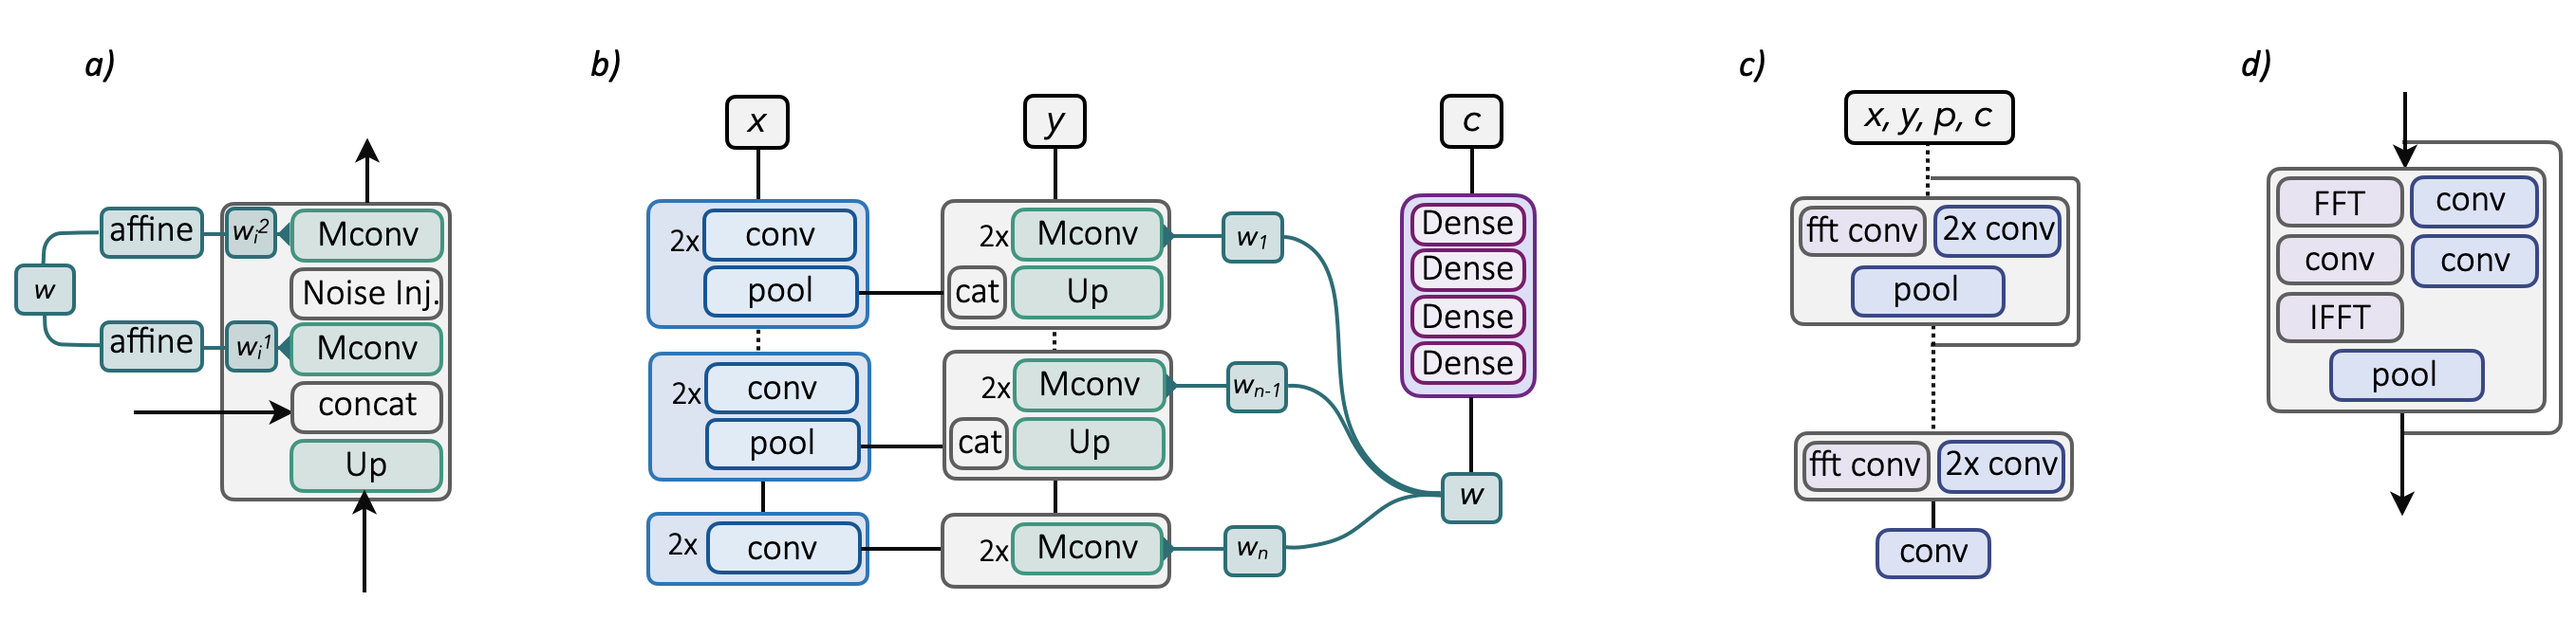
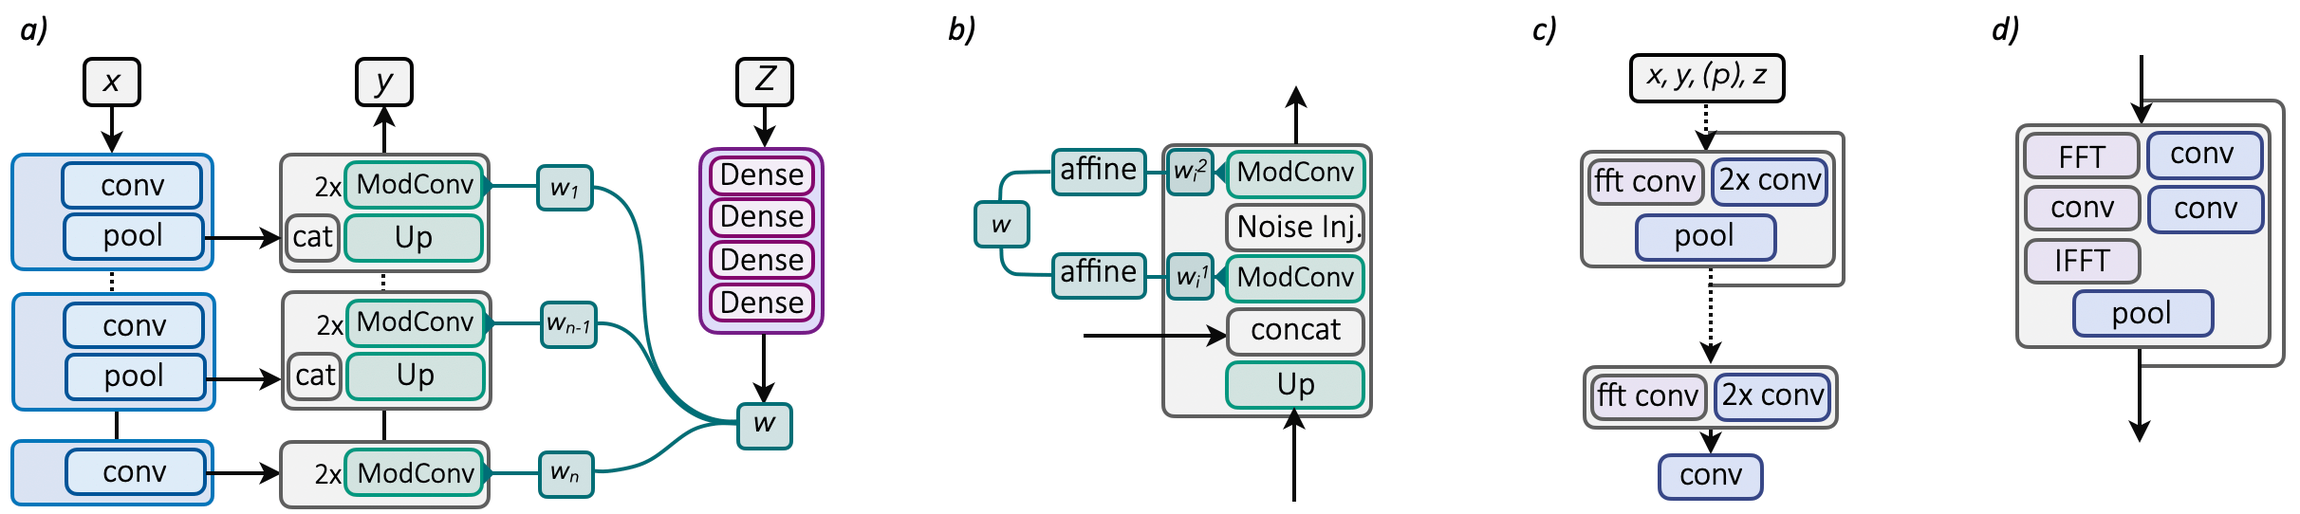
updated architecture section + image

diff --git a/index.html b/index.html
@@ -522,11 +522,11 @@ h3.figtitle {
     <strong>
     a)
     </strong>
-    A single block in the decoder branch of the synthesis network comprised of a bicubic upsampling step, followed by a concatenation with the skip connection from the corresponding encoder block. The base kernels of the two ModConvs are modulated via an affine layer with the externally mapped style vector <em>w</em>. Between the two convolutions we concatenate 8 channels of gaussian noise to the tensor before feeding it through the second ModConv. Note that the two affine mappings are learned individually.
+    Total overview of the synthesis network based on the typical U-Net architecture. Features from the input <em>x</em> are extracted via an encoder (blue blocks) comprised of two normal convolutions and a strided convolution for pooling. Subsequently the representations are decoded through a series of ModConv blocks to synthesize <em>y</em>. The Mapping network shown in purple is a simple 5-layer multi-layer perceptron (each layer of size 64) that maps the global redshift information <em>z</em> to the style vector <em>w</em>.
     <strong>
     b)
     </strong>
-    Total overview of the synthesis network based on the typical U-Net architecture. Features from the input <em>x</em> are extracted via an encoder (blue blocks) comprised of two normal convolutions and a strided convolution for pooling. Subsequently the representations are decoded through a series of ModConv blocks to synthesize <em>y</em>. The Mapping network shown in purple is a simple 8-layer MLP (each layer of size 64) that maps the context tuple (<em>z,r</em>) to the style vector <em>w</em>.
+    A single block in the decoder branch of the synthesis network comprised of a bicubic upsampling step, followed by a concatenation with the skip connection from the corresponding encoder block. The base kernels of the two ModConvs are modulated via an affine layer with the externally mapped style vector <em>w</em>. Between the two convolutions we concatenate 8 channels of gaussian noise to the tensor before feeding it through the second ModConv. Note that the two affine mappings are learned individually.
     <strong>
     c)
     </strong>
@@ -534,7 +534,7 @@ h3.figtitle {
     <strong>
     d)
     </strong>
-    Discriminator block comprised of two normal convolutions on the right path. Along the left path the data is first transformed to fourier space, convolved to extract frequency features and subsequently transformed back to real space via the inverse fourier transform. The data from the left and right path are added elemet-wise and pooled by a strided convolution. Note that throughout all networks, we use kernel sizes of 3, strides of 1 (except for the strided convolution, where a stride of 2 is used) and LeakyReLU activation functions.
+    Discriminator block comprised of two normal convolutions on the right path. Along the left path the data is first transformed to fourier space, convolved to extract frequency features and subsequently transformed back to real space via the inverse fourier transform. The data from the left and right path are added elemet-wise and pooled by a strided convolution. Throughout all networks, we use kernel sizes of 3, strides of 1 (except for the strided convolution, where a stride of 2 is used) and LeakyReLU activation functions.
    </p>
    <img src="https://raw.githubusercontent.com/maurbe/ember2/gh-pages/scr/nn.png" width="100%"/>
    <h2 id="movies">
